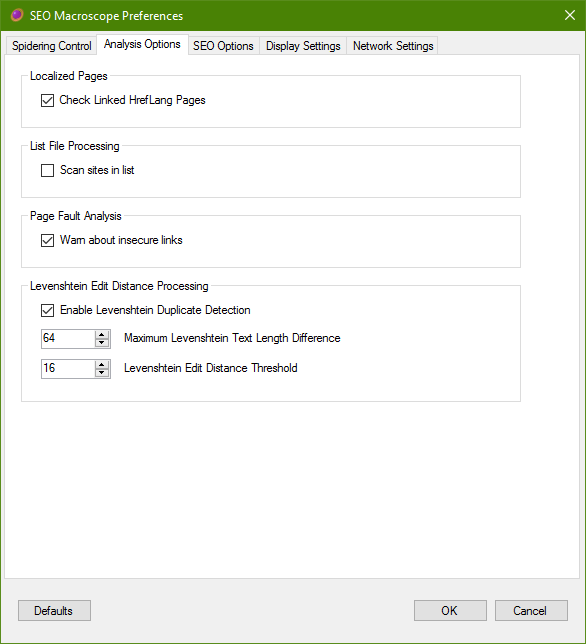
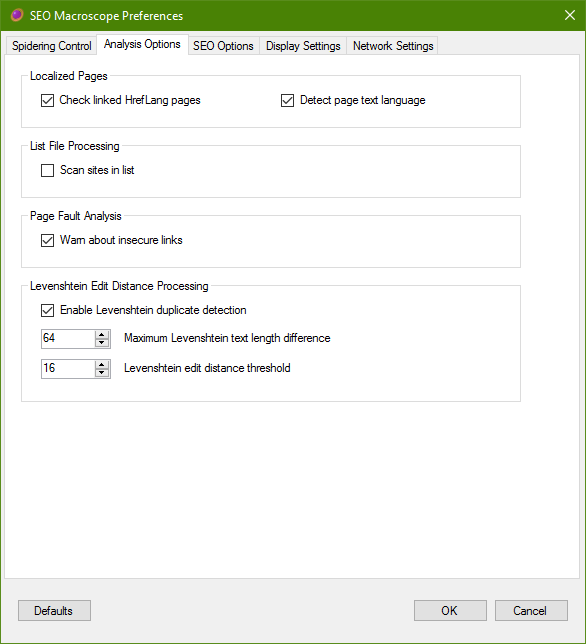
Added bug report menu item
Also updated screenshots.

Changed region(s): [[0.2457, 0.4658, 0.5836, 0.5901], [0.1536, 0.1242, 0.3379, 0.1863], [0.4915, 0.1242, 0.7372, 0.1863]]

diff --git a/MacroscopeForms/MacroscopeMainForm.Designer.cs b/MacroscopeForms/MacroscopeMainForm.Designer.cs
@@ -83,6 +83,7 @@ namespace SEOMacroscope
 		private System.Windows.Forms.ToolStripMenuItem redirectsExcelReportToolStripMenuItem;
 		private System.Windows.Forms.ToolStripMenuItem remarksExcelReportToolStripMenuItem;
 		internal System.Windows.Forms.ToolStripButton toolStripButtonRetryTimedOutLinks;
+		private System.Windows.Forms.ToolStripMenuItem reportABugToolStripMenuItem;
 
 		/// <summary>
 		/// Disposes resources used by the form.
@@ -135,6 +136,7 @@ namespace SEOMacroscope
 			this.sEOMacroscopeBlogToolStripMenuItem = new System.Windows.Forms.ToolStripMenuItem();
 			this.sEOMacroscopeOnGitHubToolStripMenuItem = new System.Windows.Forms.ToolStripMenuItem();
 			this.sEOMacroscopeManualToolStripMenuItem = new System.Windows.Forms.ToolStripMenuItem();
+			this.reportABugToolStripMenuItem = new System.Windows.Forms.ToolStripMenuItem();
 			this.licenceToolStripMenuItem = new System.Windows.Forms.ToolStripMenuItem();
 			this.aboutSEOMacroscopeToolStripMenuItem = new System.Windows.Forms.ToolStripMenuItem();
 			this.tableLayoutPanelMainContainer = new System.Windows.Forms.TableLayoutPanel();
@@ -254,7 +256,7 @@ namespace SEOMacroscope
 			this.crawlChildDirectoriesToolStripMenuItem,
 			this.clearHTTPAuthenticationToolStripMenuItem});
 			this.taskParametersToolStripMenuItem.Name = "taskParametersToolStripMenuItem";
-			this.taskParametersToolStripMenuItem.Size = new System.Drawing.Size(105, 20);
+			this.taskParametersToolStripMenuItem.Size = new System.Drawing.Size(104, 20);
 			this.taskParametersToolStripMenuItem.Text = "Task Parameters";
 			// 
 			// includeURLPatternsToolStripMenuItem
@@ -395,6 +397,7 @@ namespace SEOMacroscope
 			this.sEOMacroscopeBlogToolStripMenuItem,
 			this.sEOMacroscopeOnGitHubToolStripMenuItem,
 			this.sEOMacroscopeManualToolStripMenuItem,
+			this.reportABugToolStripMenuItem,
 			this.licenceToolStripMenuItem,
 			this.aboutSEOMacroscopeToolStripMenuItem});
 			this.helpToolStripMenuItem.Name = "helpToolStripMenuItem";
@@ -421,6 +424,13 @@ namespace SEOMacroscope
 			this.sEOMacroscopeManualToolStripMenuItem.Size = new System.Drawing.Size(244, 22);
 			this.sEOMacroscopeManualToolStripMenuItem.Text = "SEO Macroscope Online Manual";
 			this.sEOMacroscopeManualToolStripMenuItem.Click += new System.EventHandler(this.CallbackHelpManualClick);
+			// 
+			// reportABugToolStripMenuItem
+			// 
+			this.reportABugToolStripMenuItem.Name = "reportABugToolStripMenuItem";
+			this.reportABugToolStripMenuItem.Size = new System.Drawing.Size(244, 22);
+			this.reportABugToolStripMenuItem.Text = "Report a Bug";
+			this.reportABugToolStripMenuItem.Click += new System.EventHandler(this.CallbackHelpReportBugClick);
 			// 
 			// licenceToolStripMenuItem
 			// 

diff --git a/MacroscopeEnvironment/MacroscopePreferencesManager.cs b/MacroscopeEnvironment/MacroscopePreferencesManager.cs
@@ -27,6 +27,8 @@ using System;
 using System.Diagnostics;
 using System.Text.RegularExpressions;
 using System.Net;
+using System.Reflection;
+using System.Windows;
 
 namespace SEOMacroscope
 {
@@ -39,6 +41,9 @@ namespace SEOMacroscope
     static MacroscopePreferences Preferences;
     static WebProxy wpProxy = null;
 
+    // Application Version
+    //static string AppVersion;
+    
     // Display Options
     static Boolean PauseDisplayDuringScan;
     static Boolean ShowProgressDialogues;
@@ -123,6 +128,8 @@ namespace SEOMacroscope
 
       Preferences = new MacroscopePreferences ();
 
+      //CheckAppVersion();
+      
       SetDefaultValues();
 
       if( Preferences != null )
@@ -216,6 +223,24 @@ namespace SEOMacroscope
       DebugMsg( string.Format( "MacroscopePreferencesManager Depth: {0}", Depth ) );
       DebugMsg( string.Format( "MacroscopePreferencesManager PageLimit: {0}", PageLimit ) );
 
+    }
+
+    /**************************************************************************/
+
+    private static void CheckAppVersion (){
+      
+      string SavedAppVersion = Preferences.AppVersion;
+      Boolean DoReset = false;
+
+      if( string.IsNullOrEmpty(SavedAppVersion) ) {
+        DoReset = true;
+      }
+
+      if( DoReset ) {
+        SetDefaultValues();
+        SavePreferences();
+      }
+      
     }
 
     /**************************************************************************/

diff --git a/MacroscopePreferences.Designer.cs b/MacroscopePreferences.Designer.cs
@@ -37,6 +37,18 @@ namespace SEOMacroscope {
 		
 		[global::System.Configuration.UserScopedSettingAttribute()]
 		[global::System.Diagnostics.DebuggerNonUserCodeAttribute()]
+		[global::System.Configuration.DefaultSettingValueAttribute("v0.0.0.0")]
+		public string AppVersion {
+			get {
+				return ((string)(this["AppVersion"]));
+			}
+			set {
+				this["AppVersion"] = value;
+			}
+		}
+		
+		[global::System.Configuration.UserScopedSettingAttribute()]
+		[global::System.Diagnostics.DebuggerNonUserCodeAttribute()]
 		[global::System.Configuration.DefaultSettingValueAttribute("False")]
 		public bool CheckExternalLinks {
 			get {

diff --git a/MacroscopeForms/MacroscopeMainForm.cs b/MacroscopeForms/MacroscopeMainForm.cs
@@ -430,6 +430,11 @@ namespace SEOMacroscope
       LicenceForm.Dispose();
     }
 
+    private void CallbackHelpReportBugClick ( object sender, EventArgs e )
+    {
+      Process.Start( "https://github.com/nazuke/SEOMacroscope/issues" );
+    }
+
     private void CallbackHelpAboutClick ( object sender, EventArgs e )
     {
       MacroscopeAboutForm AboutForm = new MacroscopeAboutForm ();
